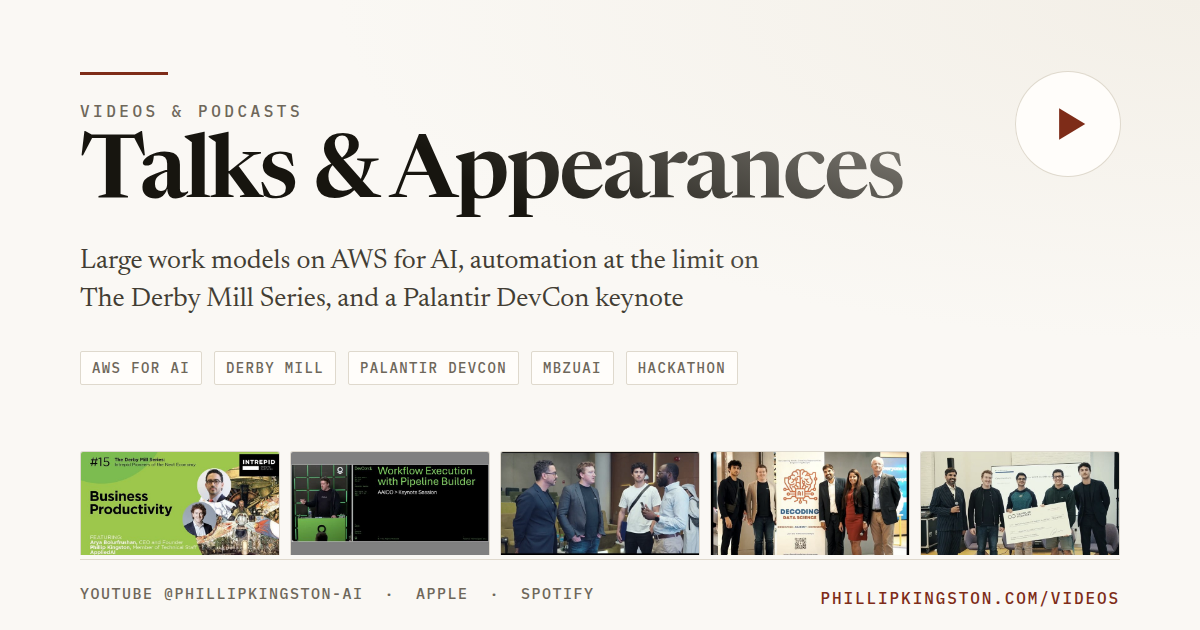
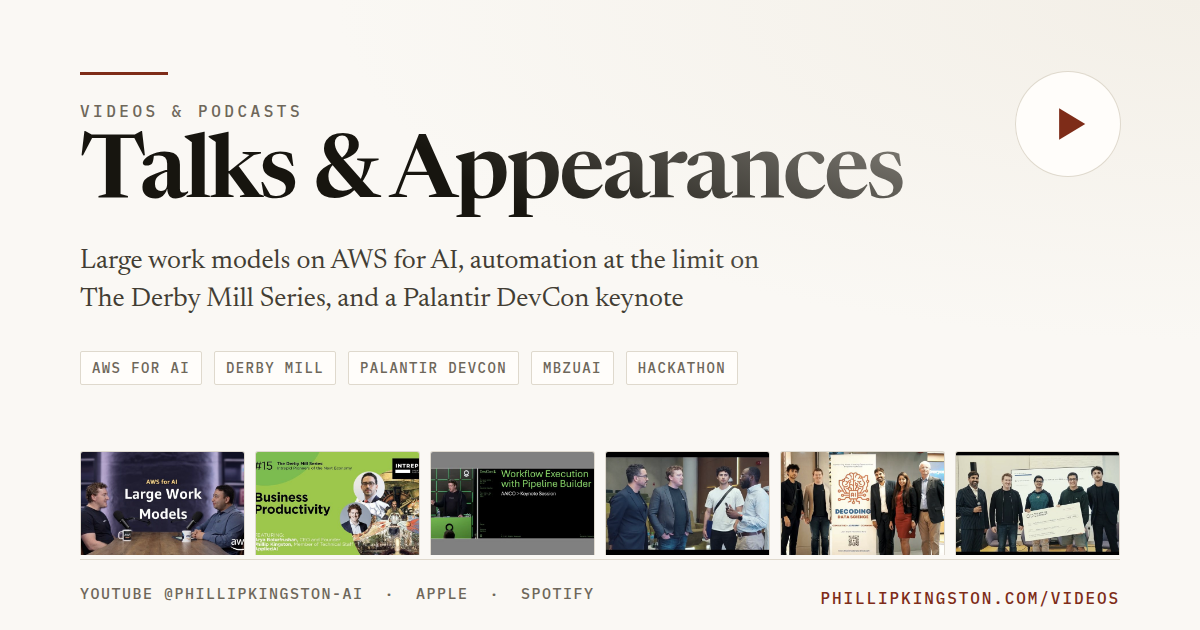
Videos: the AWS episode plays here, from its own opening frame
The still asked for turned out to be the thumbnail of a full video version of
the episode, on Amazon's own channel and 56:36 long, which is exactly the
runtime Apple lists for the audio. So rather than sit the frame on the page as
a picture, the episode now plays here in place, under the same click-to-load
facade as everything else, with that frame as its poster and YouTube added to
its links as the episode.

Both podcasts are videos now, so the square cover art and the tool that
fetched it are gone rather than left to rot, along with the tile styles that
laid them out. An audio-only episode would need a tile of its own; there is
deliberately no half-built one waiting for it.

The share card is rebuilt from six frames instead of five, and the episode's
structured data carries the video alongside the audio the way the Derby Mill
entry already did.

Claude-Session: https://claude.ai/code/session_0118PEq8Fhsb9BhsimGonVhF

Changed region(s): [[0.0617, 0.6937, 0.9558, 0.9048]]

diff --git a/videos/index.html b/videos/index.html
@@ -99,23 +99,27 @@
                         <p class="section__num">01</p>
                         <h2 id="aws-for-ai-h">AWS for AI</h2>
                     </div>
-                    <article class="pod pod--audio">
-                        <figure class="pod__art">
-                            <a href="https://podcasts.apple.com/us/podcast/id1813645599?i=1000709103719" target="_blank" rel="noopener">
-                                <img src="/img/videos/aws-for-ai-560.jpg"
-                                     srcset="/img/videos/aws-for-ai-280.jpg 280w, /img/videos/aws-for-ai-560.jpg 560w"
-                                     sizes="(min-width: 46rem) 11rem, 9rem"
-                                     width="560" height="560"
-                                     alt="Cover art for the AWS for AI Podcast: the show&#39;s title over a dark circuit-board field.">
+                    <article class="pod">
+                        <div class="video__stage" data-video="b80GKpEcr0M" data-title="EP1: AppliedAI&#39;s world&#39;s first large work model: predicting actions not words — AWS for AI podcast">
+                            <a class="video__link" href="https://www.youtube.com/watch?v=b80GKpEcr0M" target="_blank" rel="noopener">
+                                <img class="video__poster"
+                                     src="/img/videos/b80GKpEcr0M-1280.jpg"
+                                     srcset="/img/videos/b80GKpEcr0M-640.jpg 640w, /img/videos/b80GKpEcr0M-1280.jpg 1280w"
+                                     sizes="(min-width: 68rem) 48rem, 94vw"
+                                     width="1280" height="720"
+                                     alt="Phillip Kingston and the host at the AWS for AI podcast table, microphones and AWS mugs between them, under the title &#8220;Large Work Models&#8221;.">
+                                <span class="video__play" aria-hidden="true"><svg viewBox="0 0 16 16" focusable="false"><path d="M3 1.4 14 8 3 14.6Z"/></svg></span>
+                                <span class="video__dur" aria-hidden="true">56:36</span>
+                                <span class="u-sr">Play &#8220;AppliedAI&#39;s world&#39;s first large work model&#8221;, AWS for AI episode 1, 56 minutes 36 seconds</span>
                             </a>
-                            <figcaption class="pod__ep">Episode 1</figcaption>
-                        </figure>
+                        </div>
                         <div class="pod__body">
                             <h3 class="pod__title">AppliedAI&#39;s world&#39;s first large work model: predicting actions, not words</h3>
-                            <p class="video__meta"><time datetime="2025-05-20">20 May 2025</time> <span>56:36</span> <span>Amazon Web Services</span></p>
+                            <p class="video__meta"><time datetime="2025-05-20">20 May 2025</time> <span>Episode 1</span> <span>56:36</span> <span>Amazon Web Services</span></p>
                             <p class="pod__desc">Kingston sets out Opus, the large work model behind AppliedAI. Where a language model predicts the next word, a work model predicts the next action: it draws on a knowledge graph of millions of documented business processes to generate a workflow and then optimise how that workflow runs.</p>
                             <p class="pod__desc">The conversation goes from the architecture underneath Opus to what adoption looks like in regulated industries, how human and machine work are blended inside a single process, and what the shape of enterprise work becomes once this is ordinary rather than novel.</p>
                             <p class="listen">
+                                <a href="https://www.youtube.com/watch?v=b80GKpEcr0M" target="_blank" rel="noopener"><span class="listen__name">YouTube</span><span class="listen__kind">episode</span></a>
                                 <a href="https://podcasts.apple.com/us/podcast/id1813645599?i=1000709103719" target="_blank" rel="noopener"><span class="listen__name">Apple Podcasts</span><span class="listen__kind">episode</span></a>
                                 <a href="https://open.spotify.com/show/3SX05LHuYOZk1cUHRsvRWs" target="_blank" rel="noopener"><span class="listen__name">Spotify</span><span class="listen__kind">series</span></a>
                                 <a href="https://www.iheart.com/podcast/1333-aws-for-ai-276826597/" target="_blank" rel="noopener"><span class="listen__name">iHeartRadio</span><span class="listen__kind">series</span></a>
@@ -319,6 +323,13 @@
               "@type": "PodcastSeries",
               "name": "AWS for AI",
               "url": "https://www.iheart.com/podcast/1333-aws-for-ai-276826597/"
+            },
+            "associatedMedia": {
+              "@type": "VideoObject",
+              "name": "EP1: AppliedAI's world's first large work model: predicting actions not words",
+              "duration": "PT56M36S",
+              "thumbnailUrl": "https://www.phillipkingston.com/img/videos/b80GKpEcr0M-1280.jpg",
+              "embedUrl": "https://www.youtube.com/embed/b80GKpEcr0M"
             },
             "author": { "@type": "Person", "name": "Phillip Kingston", "url": "https://www.phillipkingston.com/" }
           }

diff --git a/css/videos050920261.css b/css/videos050920261.css
@@ -5,10 +5,9 @@
 
    The players are facades: a committed poster frame and a play control, with
    the YouTube iframe swapped in only once the reader asks for it (js/videos.js).
-   That is a privacy decision before a performance one — five autoloaded embeds
+   That is a privacy decision before a performance one — six autoloaded embeds
    would hand Google a request from every reader who merely opened the page.
-   Every image here, podcast art included, is served from this domain for the
-   same reason.
+   Every image on the page is served from this domain for the same reason.
    ========================================================================== */
 
 /* --- Back-link ------------------------------------------------------------ */
@@ -199,56 +198,15 @@
 .video__out a:hover { color: var(--accent); border-bottom-color: var(--accent); }
 
 /* --- Podcast episodes ------------------------------------------------------ */
-/* An audio episode has no frame of its own, so it is identified the way every
-   podcast app identifies one: by the show's cover art, square, with the episode
-   number underneath. The art belongs to the show, so it is a link back to the
-   episode on Apple rather than decoration, and it is served from this domain
-   rather than hotlinked from Apple's CDN. */
+/* Both episodes have a video version, so each is presented as a player under
+   the same click-to-load facade as the rest of the page, with the caption and
+   the listening links underneath. If an audio-only episode ever lands here it
+   will need a tile of its own; there is deliberately no half-built one waiting
+   for it. */
 
 .pod {
   display: grid;
   gap: clamp(1.1rem, 2.5vw, 1.6rem);
-}
-@media (min-width: 46rem) {
-  .pod--audio {
-    grid-template-columns: 11rem minmax(0, 1fr);
-    align-items: start;
-    gap: clamp(1.5rem, 4vw, 2.75rem);
-  }
-}
-
-.pod__art { width: 9rem; }
-@media (min-width: 46rem) { .pod__art { width: 100%; } }
-
-.pod__art a {
-  display: block;
-  border-radius: 3px;
-  overflow: hidden;
-  box-shadow: 0 0 0 1px var(--rule), var(--shadow);
-  transition: box-shadow 0.18s, transform 0.25s;
-}
-.pod__art a:hover,
-.pod__art a:focus-visible {
-  box-shadow: 0 0 0 1px var(--accent), var(--shadow);
-  transform: translateY(-2px);
-}
-.pod__art img { width: 100%; aspect-ratio: 1; object-fit: cover; }
-
-.pod__ep {
-  margin-top: 0.6rem;
-  font-family: var(--mono);
-  font-weight: 500;
-  font-size: var(--step-eyebrow);
-  letter-spacing: 0.14em;
-  text-transform: uppercase;
-  text-align: center;
-  color: var(--ink-3);
-  font-variant-numeric: tabular-nums;
-}
-
-@media (prefers-reduced-motion: reduce) {
-  .pod__art a { transition: box-shadow 0.18s; }
-  .pod__art a:hover, .pod__art a:focus-visible { transform: none; }
 }
 
 .pod__body { display: grid; gap: 0.4rem; min-width: 0; }
@@ -382,7 +340,6 @@
 @media print {
   .backlink, .video__play, .video__dur, .channel__cta { display: none !important; }
   .video__stage { box-shadow: none; break-inside: avoid; }
-  .pod__art a { box-shadow: 0 0 0 1px var(--rule); }
   .video__poster { filter: grayscale(1); }
   .video, .pod { break-inside: avoid; }
   .video__out a[href]::after { content: " (" attr(href) ")"; }

diff --git a/tools/og-card-videos.html b/tools/og-card-videos.html
@@ -7,7 +7,7 @@
   root-absolute, so it only renders correctly when served from the site root.
   Not linked from the site.
 
-  The strip along the bottom is the five poster frames the page itself uses,
+  The strip along the bottom is the six poster frames the page itself uses,
   in page order, so the card and the page cannot drift apart without someone
   noticing: a poster removed from img/videos/ leaves a hole here too.
 -->
@@ -58,6 +58,7 @@ h1{font-size:88px;font-weight:600;letter-spacing:-.028em;line-height:.95;margin-
 </div>
 <div>
   <div class="strip">
+    <figure><img src="/img/videos/b80GKpEcr0M-640.jpg" alt=""></figure>
     <figure><img src="/img/videos/P8IVkxhXCw8-640.jpg" alt=""></figure>
     <figure><img src="/img/videos/PyTud9QBkQg-640.jpg" alt=""></figure>
     <figure><img src="/img/videos/XnDJLZlBHQw-640.jpg" alt=""></figure>

diff --git a/tools/fetch-video-posters.py b/tools/fetch-video-posters.py
@@ -27,6 +27,7 @@ from PIL import Image
 # Video ids in the order they appear on the page. The id is the filename stem,
 # so a video dropped from the page leaves an obvious orphan in img/videos/.
 VIDEOS = [
+    "b80GKpEcr0M",  # AWS for AI ep 1 — a podcast that is also a video
     "P8IVkxhXCw8",  # The Derby Mill Series ep 15 — a podcast that is also a video
     "PyTud9QBkQg",  # Palantir DevCon 2024 keynote
     "XnDJLZlBHQw",  # MBZUAI, Abu Dhabi
